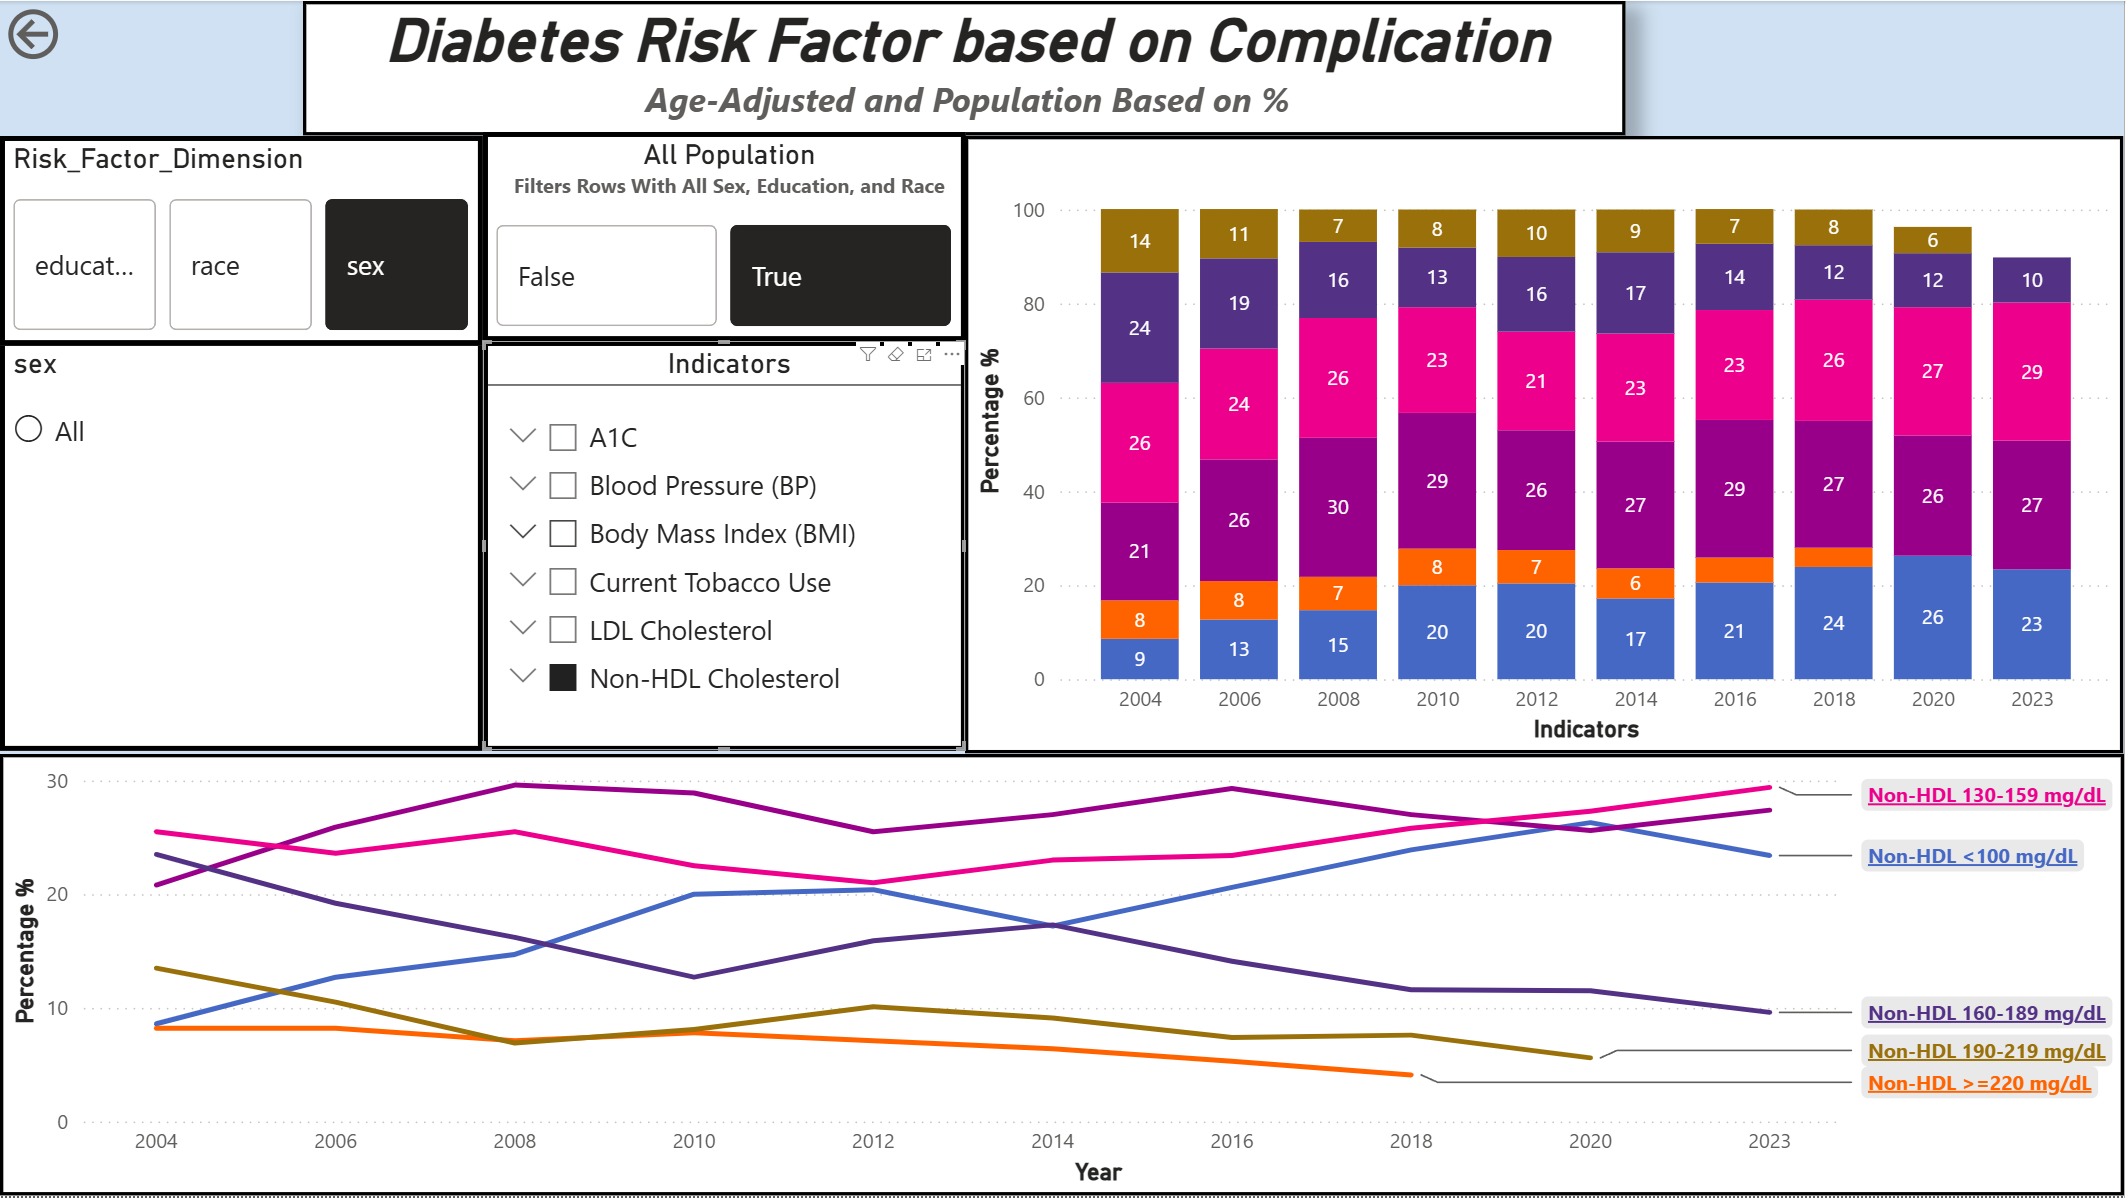
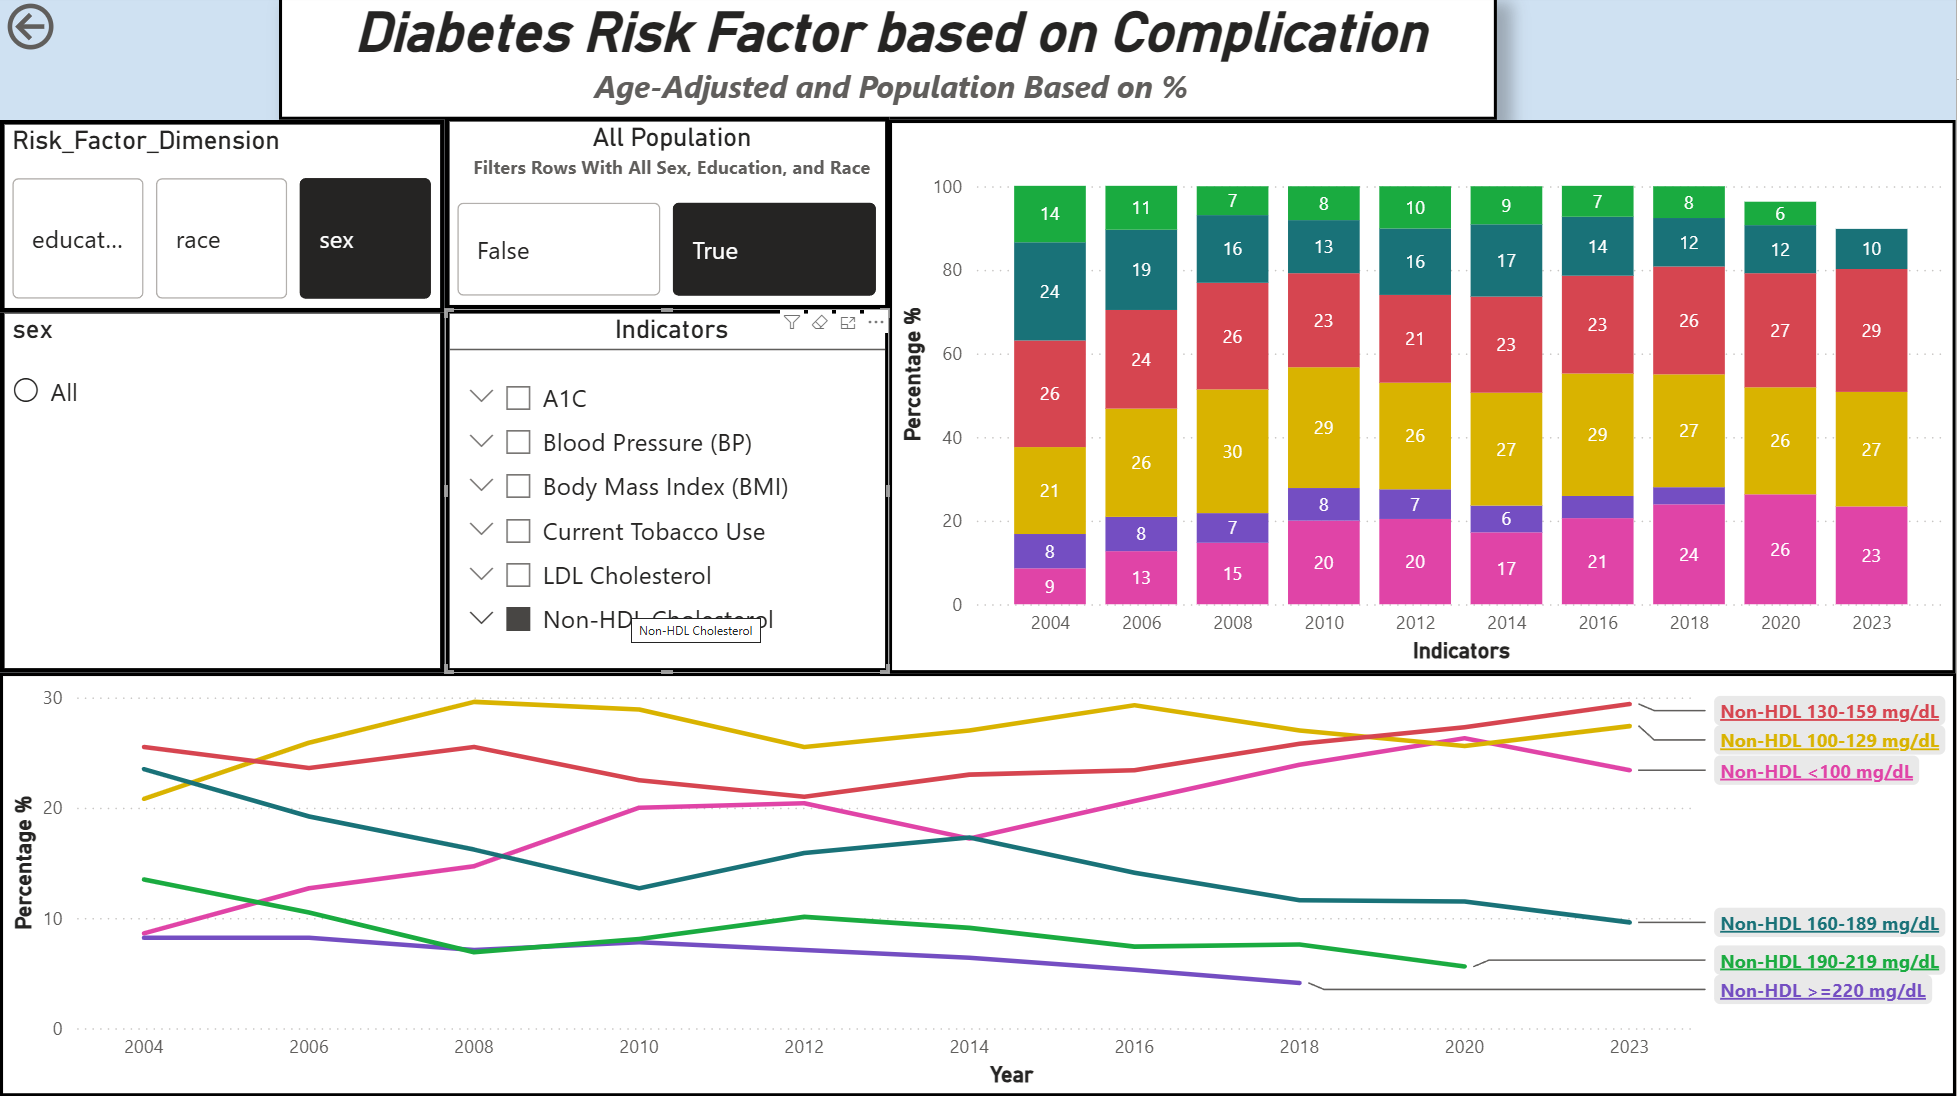
Added info about Non-HDL and Solution to reduce diabetes based on our data

diff --git a/analysis/diabetes_indicator_analysis/diabetes_indicator_report.md b/analysis/diabetes_indicator_analysis/diabetes_indicator_report.md
@@ -16,7 +16,7 @@
 ---
 What group of **Adults 18+ with Diabetes(AWD)** for each risk factors (Blood Sugar(A1), Body Mass Index (BMI), Blood Pressure(BP), LDL Cholestrol, Non-HDL Cholestrol, and Tabacco Use)?
 
-## Blood Sugar (A1C)
+## Blood Sugar (A1C) <a id="A1C"></a>
 ***
 ### Basic Info:
 - Before we dive into the Analysis, lets first answer what A1C is? A1C is a blood test that provides information about your averaage levels of blood glucose, also called bloos sugar, over the past 3 months. It can be used to diagnose type 2 diabetes and prediabetics. **A Normal A1C level is below 5.7**.
@@ -44,7 +44,7 @@ What group of **Adults 18+ with Diabetes(AWD)** for each risk factors (Blood Sug
 
 
 ***
-## Body Mass Index(BMI)
+## Body Mass Index(BMI) <a id="BMI"></a>
 ***
 ### Basic Info:
 - What is BMI? It is a measure to calculate the measure of weight relative to height
@@ -74,7 +74,7 @@ What group of **Adults 18+ with Diabetes(AWD)** for each risk factors (Blood Sug
         1. In 1976-1980 US government recommended Americans to reduce far consumptions, the food industry responded with more low-fat products,
         2. But from 1976-1980 to 1999-2000 show that the percentage of calories from fat decreased slightly, byut total energy intake increased, meaning overall amount of fat consumed likely stayed thge same or even rose slightly 
         3. Temple, Normal 3 reseach shows that these changes in dietary fat intake had little connection to the Obesity pandemic.
-    3. Ultra-Processed Foods (UPF):
+    3. **Ultra-Processed Foods (UPF):** <a id="upf"></a>
         1. Foods that are prepared with mostly cheap sources of dietary energy and nutrients plus additives.
         2. Mostly consists of high calories, salt, sugar, and fat but minimal amounts of whole foods. 
         3. They also have low content of dietary fiber, phytochemicals and various micronutrients such as vitamin C, magnesium, and potassium
@@ -88,7 +88,7 @@ What group of **Adults 18+ with Diabetes(AWD)** for each risk factors (Blood Sug
 1. Temple, Norman J. “The Origins of the Obesity Epidemic in the USA-Lessons for Today.” Nutrients vol. 14,20 4253. 12 Oct. 2022, [doi:10.3390/nu14204253](https://pmc.ncbi.nlm.nih.gov/articles/PMC9611578/)
 ***
 
-## Blood Pressure(BP)
+## Blood Pressure(BP) <a id="BP"></a>
 ***
 ### Basic Info:
 - What is it? Blood Pressure is the force exerted by circulating blood agains the walls of the arteries
@@ -121,7 +121,7 @@ What group of **Adults 18+ with Diabetes(AWD)** for each risk factors (Blood Sug
 ***
 
 ***
-## Tabocco Use:
+## Tabocco Use: <a id="tabacco"></a>
 
 ### Basic Info:
 1. What is it? According to National Cancer Institute, it is a plant with leaves that has high levels of a addcitive chemical called Nicotine 
@@ -141,7 +141,7 @@ What group of **Adults 18+ with Diabetes(AWD)** for each risk factors (Blood Sug
 ***
 
 ***
-## LDL(Low Density Lipoprotein) cholestrol:
+## LDL(Low Density Lipoprotein) cholestrol:<a id="ldl"></a>
 
 ### Basic Info:
 1. Often referred as to "Bad Cholestrol", which itself isn't bad. It plays and important role in your body, but too much of it is bad. LDL are fat particles and protein that carry fats through your bloodstream.
@@ -155,7 +155,6 @@ What group of **Adults 18+ with Diabetes(AWD)** for each risk factors (Blood Sug
 |160-189| High LDL|
 |190 >| Very High LDL|
 4. Anything above 100 mg/dl raises your risks of cardiovascular disease.
-5. 
 
 ![alt text](img/Risk_Factor/LDL_Chol_All.png)
 ### What happend?
@@ -164,9 +163,47 @@ What group of **Adults 18+ with Diabetes(AWD)** for each risk factors (Blood Sug
 
 ### Why it happend?
 1. According to Capewell, et al. The main reason for low LDL levels is due to Statins. 
-2. What is Statins? Statins are drugs that lower LDL in the blood. h
+2. What is Statins? Statins are drugs that lower LDL in the blood. 
 ### Citation
 1. Cleveland Clinic: https://my.clevelandclinic.org/health/articles/24391-ldl-cholesterol
 2. Capewell, Simon, and Earl S Ford. “Why have total cholesterol levels declined in most developed countries?.” BMC public health vol. 11 641. 11 Aug. 2011, [doi:10.1186/1471-2458-11-641](https://pmc.ncbi.nlm.nih.gov/articles/PMC3199603/#sec11)
 ***
+
+***
+## Non-HDL cholesterol:<a id="non-hdl"></a>
+
+### Basic Info: 
+1. Non-HDL cholestrol refers to all the cholesterol carried on particles other then High Density Lipoproteins (HDL). it captures the amount of "bad" cholesterol in your blood.
+2. These particles include. LDL, very-LDL, Intermediate-density lipoproteins, etc. 
+3. What causes them? Genetics, Diet(eating foods with trans-fat, saturated fat, and added sugar), Obesity, Using Tobacco, Not getting enough exercise. 
+
+|Non-HDL Levels(mg/dl)| Status|
+|---------------------|-------|
+|< 130 | Normal|
+|130 - 159| Elevated|
+|160 > | High 
+![alt text](img/Risk_Factor/Non-HDL_Chol_ALL.png)
+## What happend?
+1. **2004**
+    1. The Non-HDL levles were at a all time high **46% of the population had high levels of Non-HDL** and **26% of them had Elevated levels of Non-HDL**. 
+2. **2004-2023**
+    1. As the time went on **The high levels of Non-HDL decreased drastically from 46% to 10%** and **Normal Levels rose from 30% to 50%** while **Elevated levels stayed about the same only slight increase from 26% to 29%**
+
+## Why has this happend?
+1. Non-HDL levels are linked to LDL(Mostly), Obesity, and Tobacco use. From the trends above we can see the LDL and Tobacco uses decresed drastically, while obesity only increased slightly. Hence the drastic decrease of Non-HDL levels. 
+## Citation:
+Cleveland Clinic: https://my.clevelandclinic.org/health/articles/non-hdl-cholesterol
+***
+
+
+# How can we reduce diabetes?
+1. Reducation or Regulations agains UPF(Ultra Processed Food):
+    1. Why?: 
+        1. UPF currently plays a major role or even the leading cause in the obesity pandemic. 
+        2. Obesity causes Non-HDL, high blood sugar, LDL, and High blood pressure. 
+        3. UPF food provide minimal nutrients, while pumped so calories, sugar, sodium, and fats. [Jump To this for more information](#upf)
+    2. What should we do?
+        1. Force manufacturers to reduce the amount of calories, sugar, sodium, and fats that can be added to the food propotion to its portions and add more nutrients. 
+        2. Make healthy alternatives cheaper. 
+        3. Educate the general population about the harms to eating UPF, [similar to what they did to smoking](#tabacco). 
 ---
